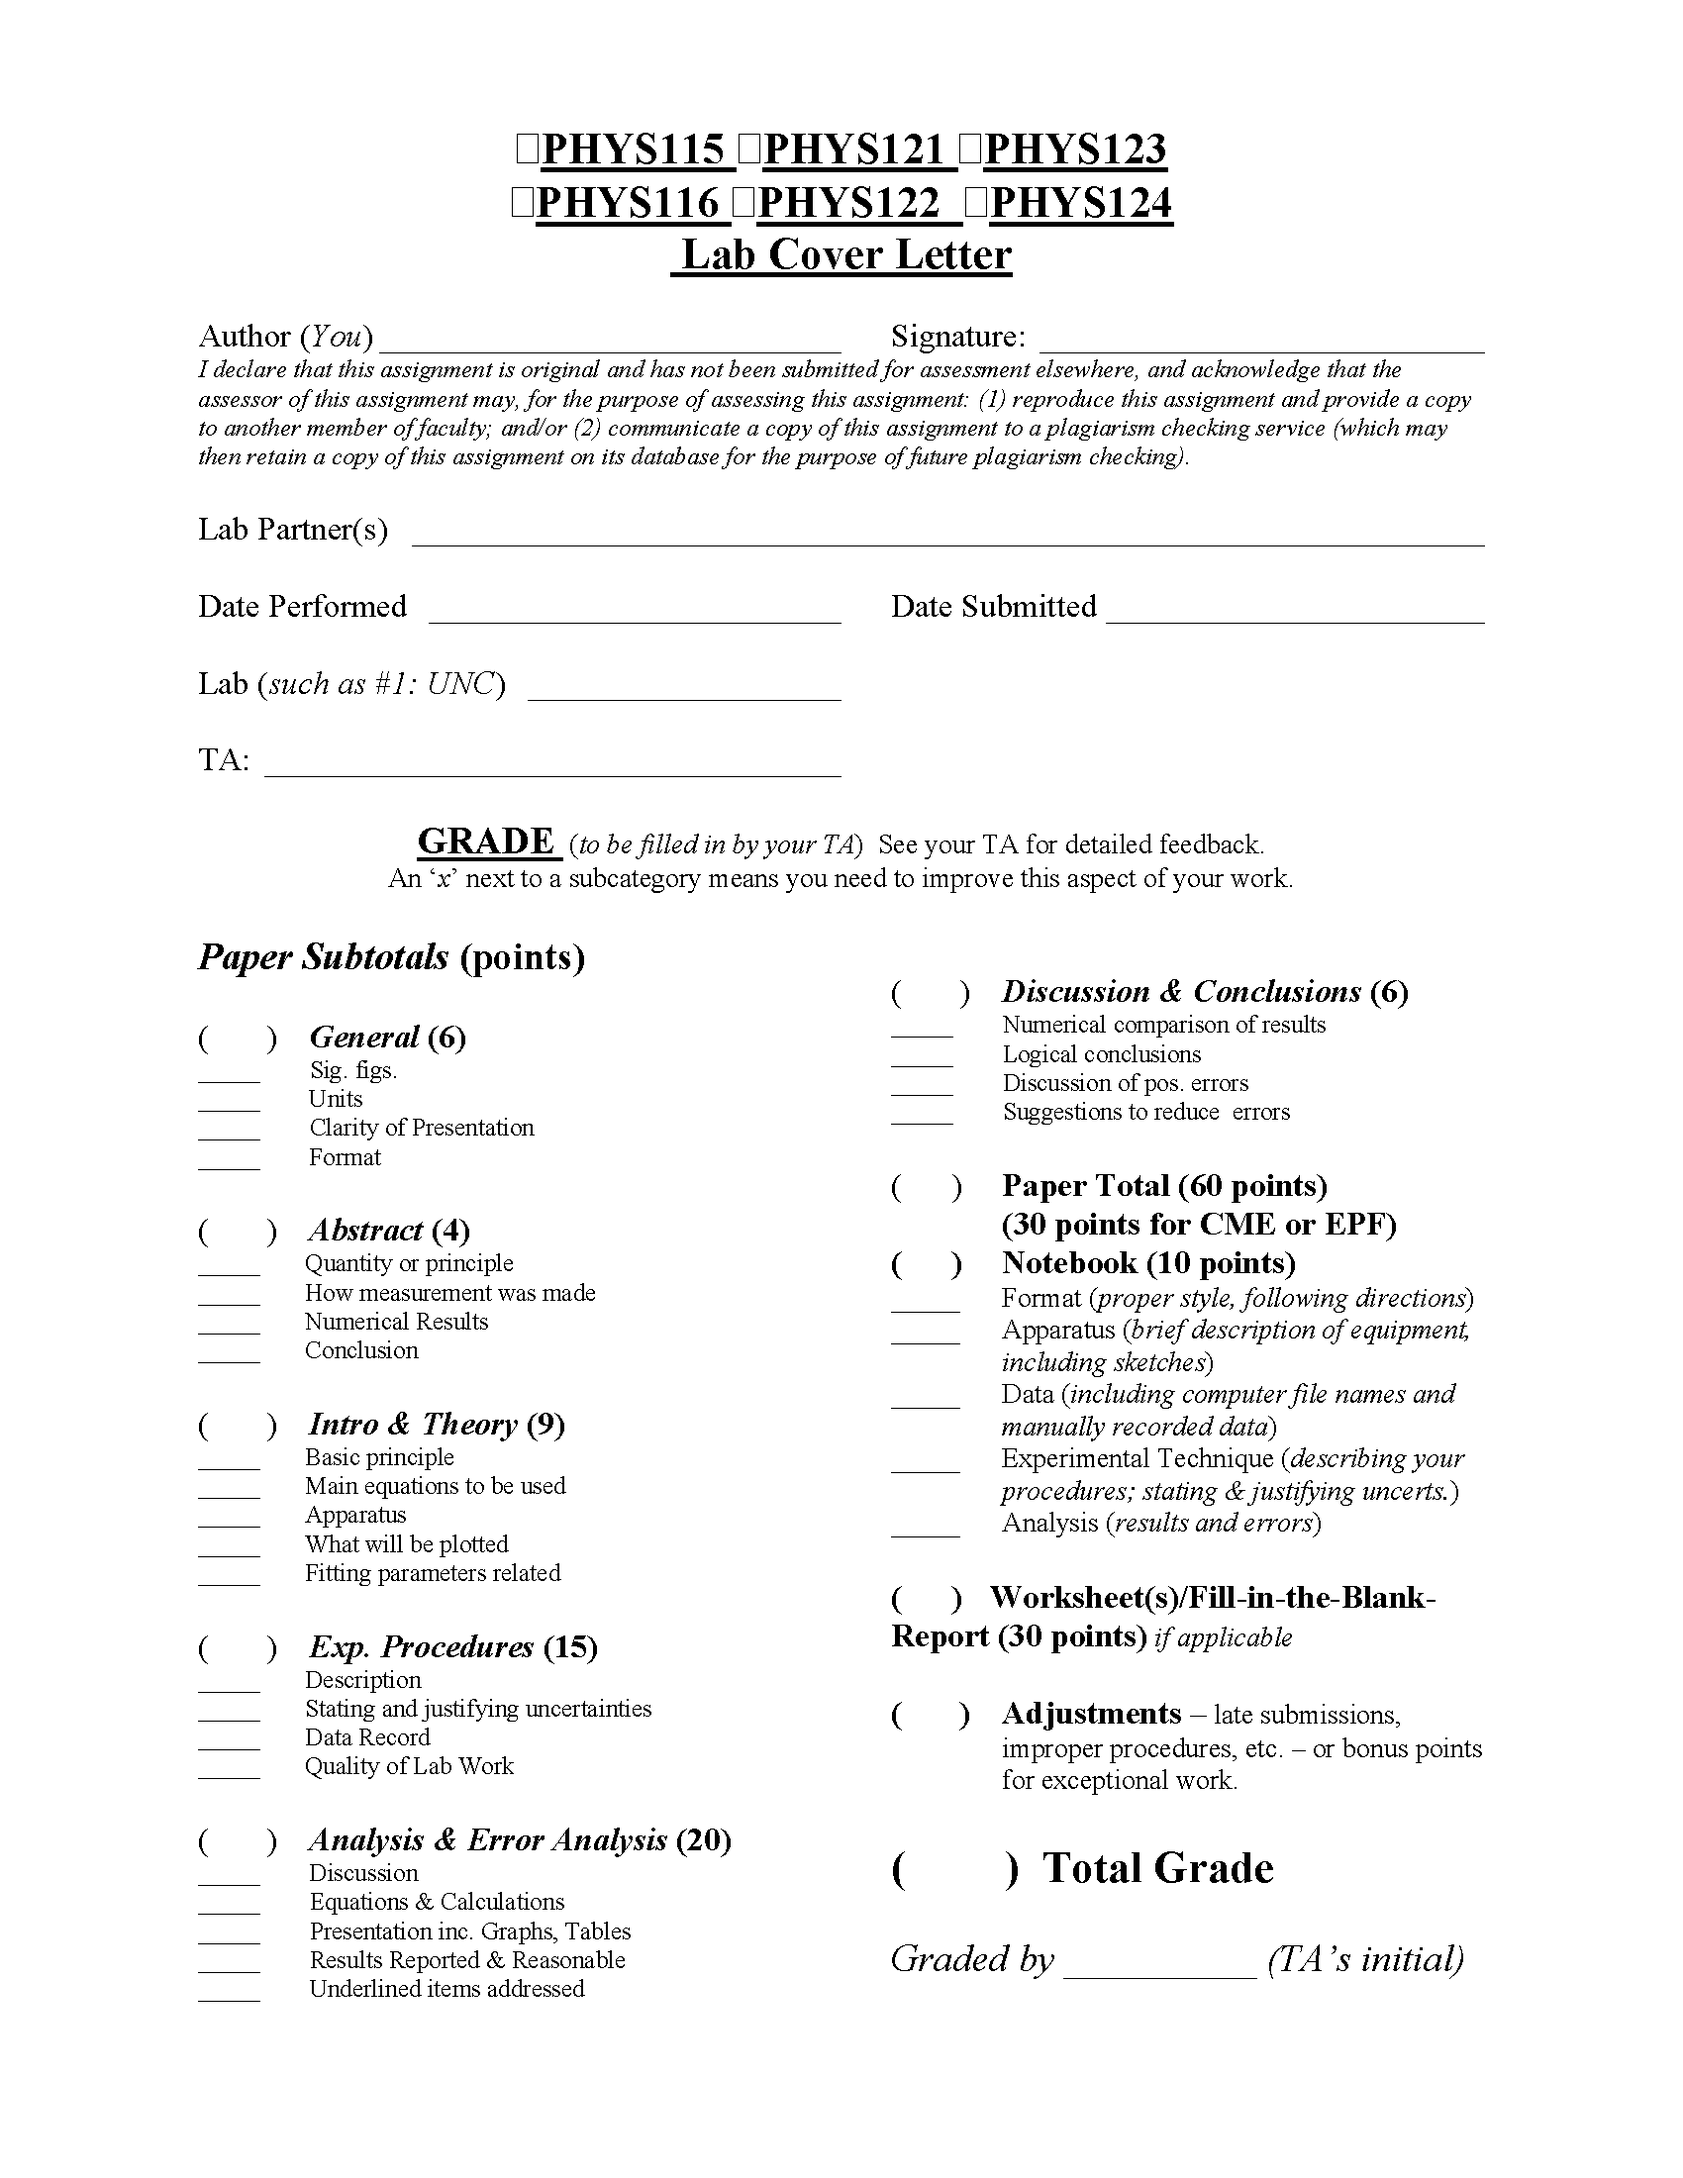
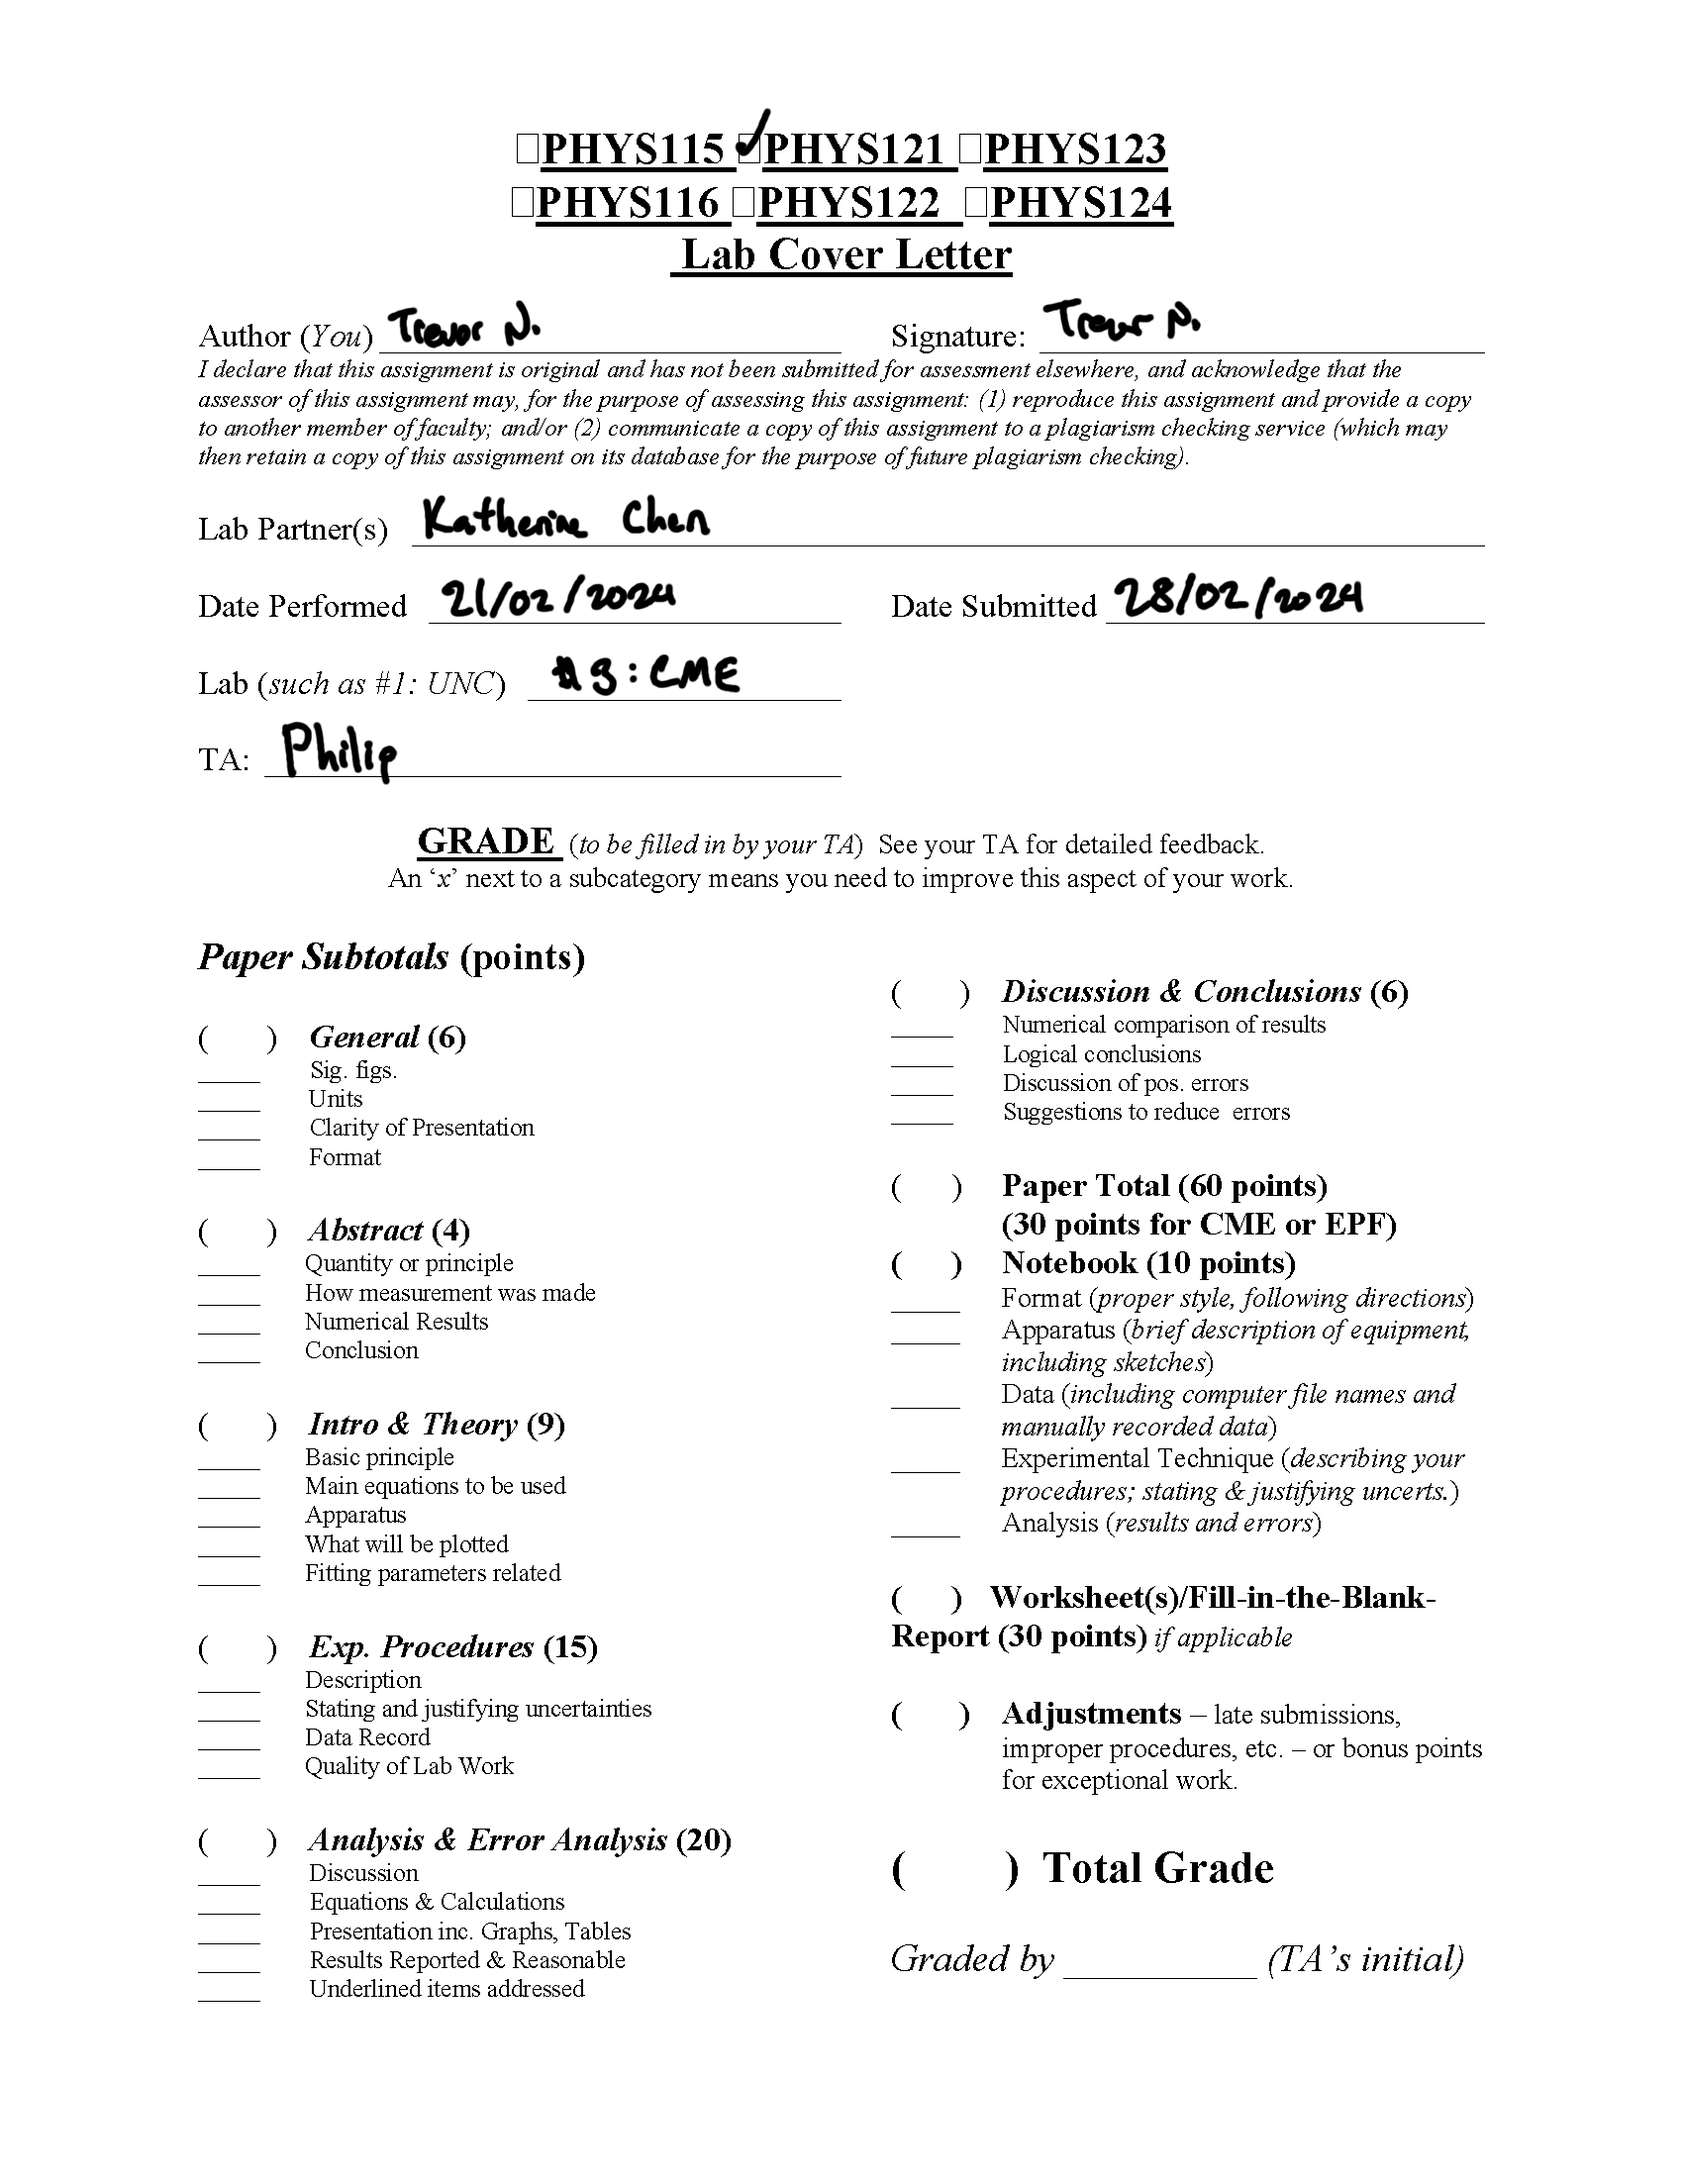
vault backup: 2024-02-28 12:59:02

diff --git a/PHYS 121 - Physics 1/Labs/3/Analysis.md b/PHYS 121 - Physics 1/Labs/3/Analysis.md
@@ -1,3 +1,5 @@
+![[PHYS 121 - Physics 1/Labs/3/Report Cover.png]]
+
 # Abstract
 
 The purpose for this lab is to establish whether energy is truly conserved when stored and transferred between springs, gravity (height), and motion. 
